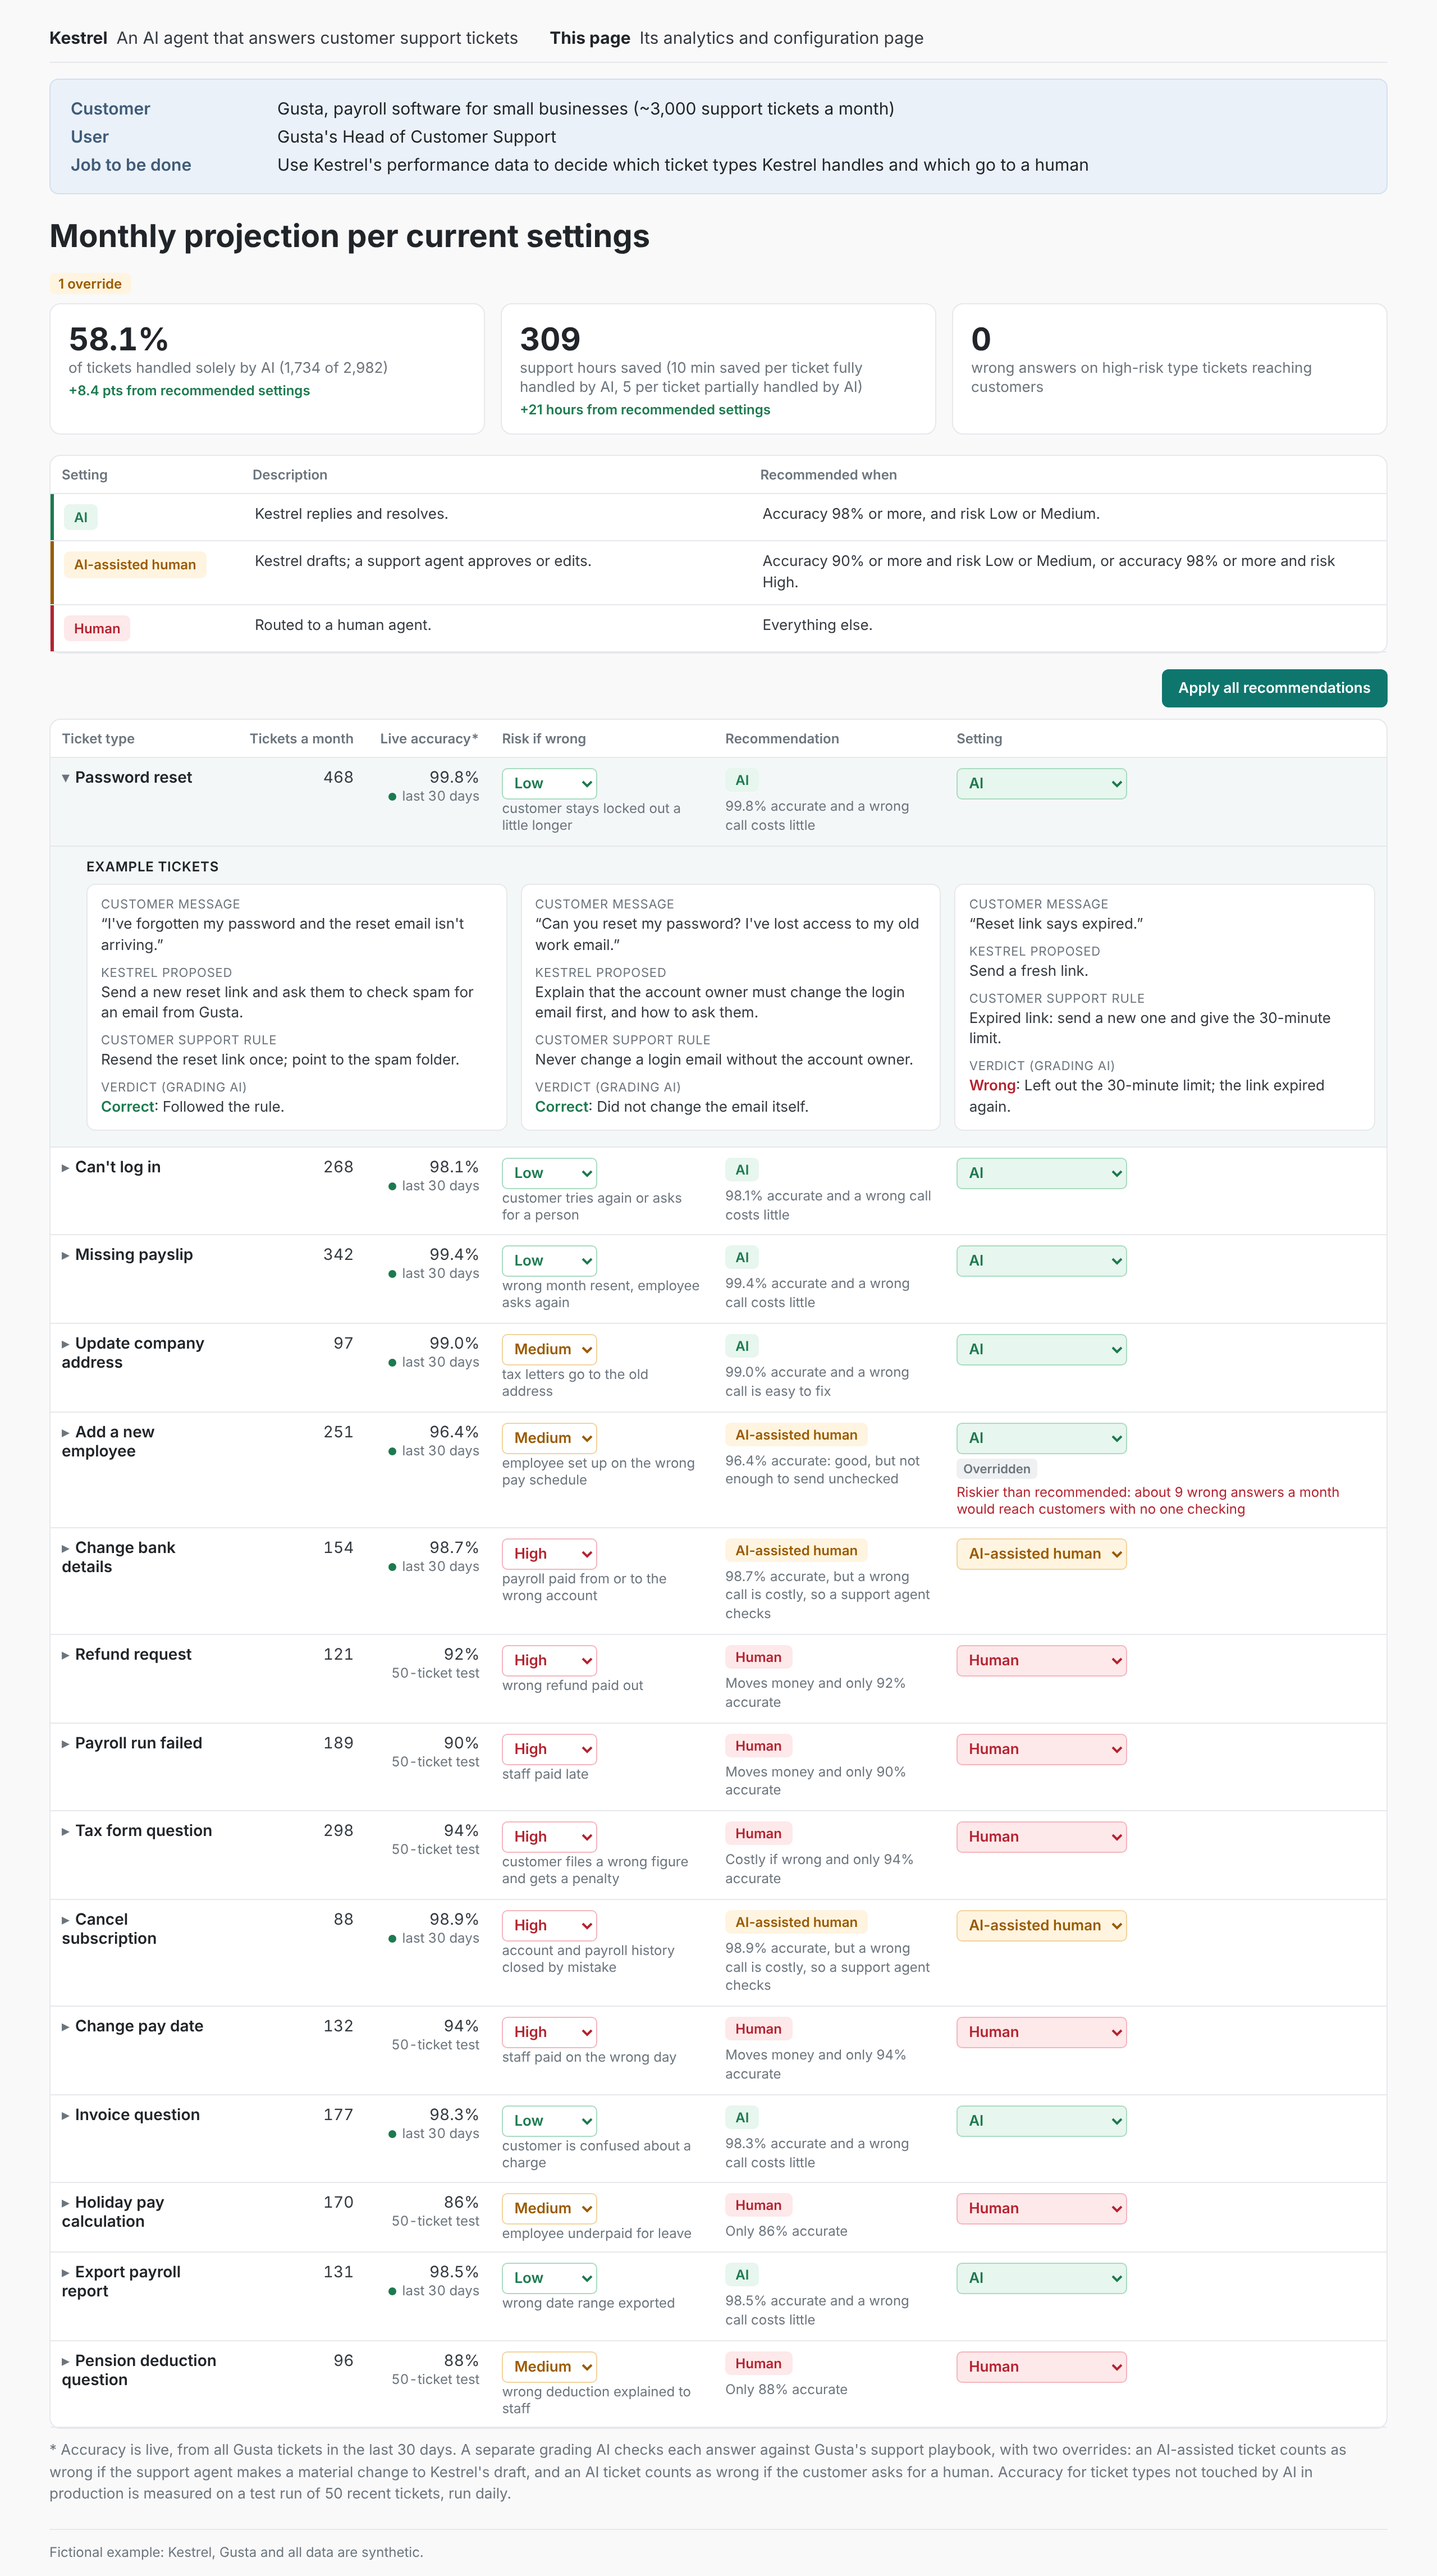
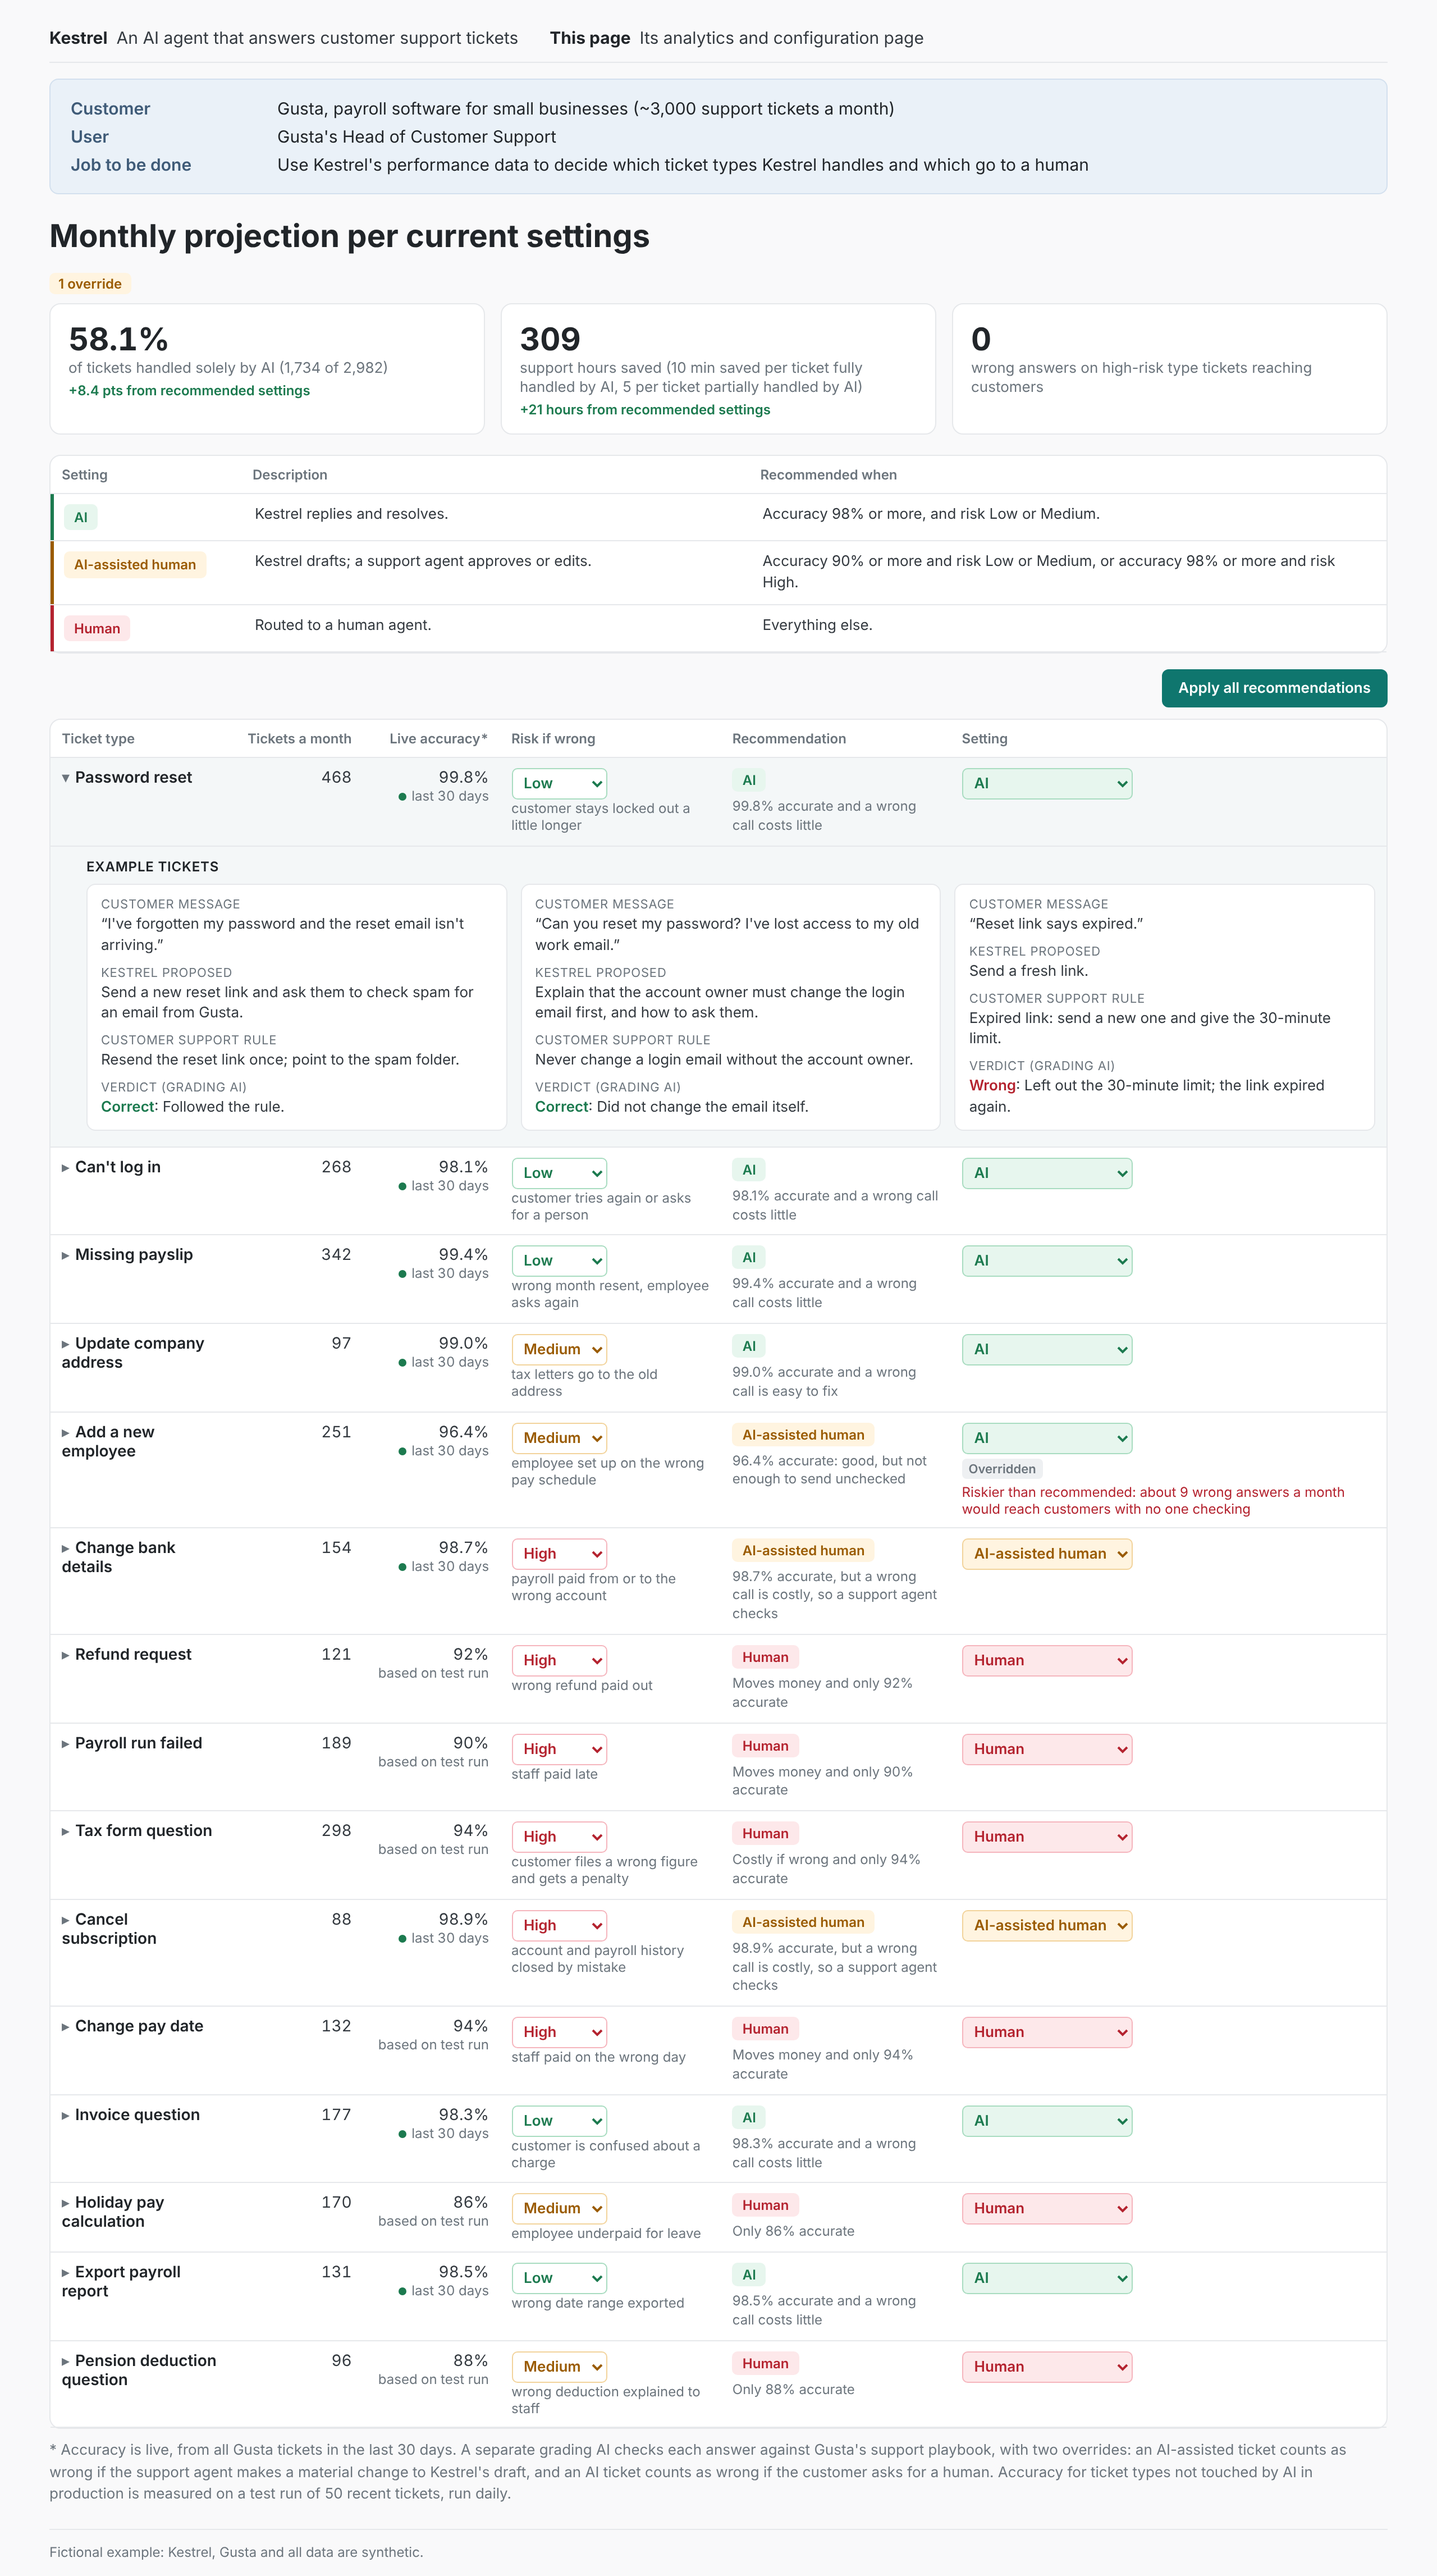
Accuracy label for test-run types: based on test run
Claude-Session: https://claude.ai/code/session_016JoguXTxkWcj5knaYbAtMZ

diff --git a/examples/kestrel/build/mvp.html b/examples/kestrel/build/mvp.html
@@ -155,7 +155,7 @@ function render(){
     const main = `<tr class="row${isOpen ? ' open' : ''}" data-i="${i}" onclick="toggle(${i})">
       <td><span class="chev">${isOpen ? '▾' : '▸'}</span><span class="name">${t.name}</span></td>
       <td class="n">${fmt(t.tickets)}</td>
-      <td class="n acc ${accFlash[i] ? (accFlash[i] > 0 ? 'acc-up' : 'acc-down') : ''}">${accFlash[i] ? `<span class="accd">${accFlash[i] > 0 ? '▲ +' : '▼ −'}${Math.abs(accFlash[i]).toFixed(1)}</span>` : ''}${p}%<div class="sub">${t.tested === t.tickets ? '<span class="live-dot"></span>last 30 days' : t.tested + "-ticket test"}</div></td>
+      <td class="n acc ${accFlash[i] ? (accFlash[i] > 0 ? 'acc-up' : 'acc-down') : ''}">${accFlash[i] ? `<span class="accd">${accFlash[i] > 0 ? '▲ +' : '▼ −'}${Math.abs(accFlash[i]).toFixed(1)}</span>` : ''}${p}%<div class="sub">${t.tested === t.tickets ? '<span class="live-dot"></span>last 30 days' : "based on test run"}</div></td>
       <td onclick="event.stopPropagation()"><select class="rk-${t.risk}" data-risk="${i}" onchange="setRisk(${i}, this.value)">${['Low', 'Medium', 'High'].map(v => `<option${v === t.risk ? ' selected' : ''}>${v}</option>`).join('')}</select>${adj ? '<div class="adjusted">Adjusted by user</div>' : `<div class="sub">${t.risk_example.replace(/^\w+: /, '')}</div>`}</td>
       <td><span class="chip c-${rec}">${LABEL[rec]}</span>${adj ? '' : `<div class="reason">${t.reason}</div>`}</td>
       <td onclick="event.stopPropagation()"><select class="s-${set}" data-i="${i}" onchange="setMode(${i}, this.value)">${['resolve', 'draft', 'human'].map(m => `<option value="${m}"${m === set ? ' selected' : ''}>${LABEL[m]}</option>`).join('')}</select>${over}${warn}</td>

diff --git a/examples/kestrel/build/check_mvp.js b/examples/kestrel/build/check_mvp.js
@@ -17,6 +17,7 @@ const srv = http.createServer((q, r) => { const f = path.join(root, decodeURICom
   t('default projection: 58.1%, 309 hours, 0', (await txt('#sumShare')) === '58.1%' && (await txt('#sumHours')) === '309' && (await txt('#sumHigh')) === '0');
   t('static mode: no accuracy change on load', (await p.$$('td.acc-up, td.acc-down')).length === 0);
   t('a blinking live dot on each type measured on live tickets (9), 1-second blink', (await p.$$('td.acc .live-dot')).length === 9 && (await p.evaluate(() => { document.body.classList.remove('static'); const cs = getComputedStyle(document.querySelector('.live-dot')); const ok = cs.animationName === 'blink' && cs.animationDuration === '1s'; document.body.classList.add('static'); return ok; })));
+  t('test-run types are labelled "based on test run" (6)', (await p.$$eval('td.acc .sub', es => es.filter(e => e.textContent === 'based on test run').length)) === 6);
   const chips = () => p.$$eval('tr.row td:nth-child(5) .chip', es => es.map(e => e.textContent).join('|')), chips0 = await chips();
   t('one tick: exactly one accuracy cell changes, with its arrow', (await p.evaluate(() => tick())) && (await p.$$('td.acc-up, td.acc-down')).length === 1 && /[▲▼] [+−]\d/.test(await txt('td.acc-up, td.acc-down')));
   const picks = await p.evaluate(() => { const c = {}; for (let k = 0; k < 400; k++) { const before = liveCorrect.slice(); if (tick()) { const i = liveCorrect.findIndex((v, j) => v !== before[j]); c[i] = (c[i] || 0) + 1; } } return c; });
